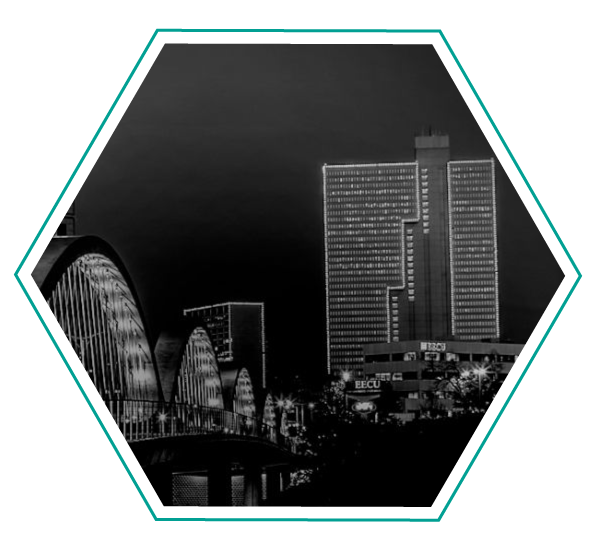
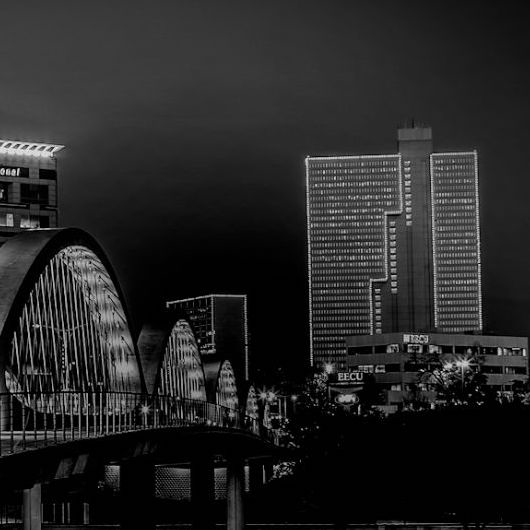
project child pages

diff --git a/app/portfolio/portfolio.component.scss b/app/portfolio/portfolio.component.scss
@@ -6,9 +6,28 @@ $primary-color: #757575;
 	text-align: center;
 }
 .project {
-	padding: 10px;
+	.outside {
+		position: absolute;
+		right: 150px;
+    width: 350px;
+    height: 380px;
+		background: $heading-color;
+		-webkit-clip-path: polygon(50% 3%, 100% 25%, 100% 75%, 50% 97%, 0% 75%, 0% 25%);
+		clip-path: polygon(50% 3%, 100% 25%, 100% 75%, 50% 97%, 0% 75%, 0% 25%);
+	}
+	.inside {
+		position: absolute;
+		top: 5px;
+		left: 5px;
+		right: 5px;
+		bottom: 5px;
+		background: #e4f4f3;
+		-webkit-clip-path: polygon(50% 3%, 100% 25%, 100% 75%, 50% 97%, 0% 75%, 0% 25%);
+		clip-path: polygon(50% 3%, 100% 25%, 100% 75%, 50% 97%, 0% 75%, 0% 25%);
+	}
 	.project-image {
-		padding: 10px;
+		-webkit-clip-path: polygon(50% 3%, 100% 25%, 100% 75%, 50% 97%, 0% 75%, 0% 25%);
+		clip-path: polygon(50% 3%, 100% 25%, 100% 75%, 50% 97%, 0% 75%, 0% 25%);
 	}
 	h2 {
 		color: $heading-color;
@@ -28,38 +47,61 @@ $primary-color: #757575;
 @media only screen and (min-width : 1224px) {
 
 	.projects {
+		padding: 55px 95px;
+		text-align: left;
 		h2 {
 			font-size: 40px;
 		}
 		p {
 			font-size: 20px;
 		}
-		padding: 55px 95px;
-		text-align: left;
 		.project {
 			position: relative;
     	height: 390px;
       margin: 50px;
+			.outside {
+				position: absolute;
+				width: 350px;
+				height: 380px;
+				background: $heading-color;
+				-webkit-clip-path: polygon(50% 3%, 100% 25%, 100% 75%, 50% 97%, 0% 75%, 0% 25%);
+				clip-path: polygon(50% 3%, 100% 25%, 100% 75%, 50% 97%, 0% 75%, 0% 25%);
+			}
+			.outside.realty, .outside.valerie, .outside.kw   {
+				right: -550px;
+			}
+			.outside.kwhitaker, .outside.bella  {
+				left: 850px;
+			}
+			.inside {
+				position: absolute;
+				top: 5px;
+				left: 5px;
+				right: 5px;
+				bottom: 5px;
+				background: #e4f4f3;
+				-webkit-clip-path: polygon(50% 3%, 100% 25%, 100% 75%, 50% 97%, 0% 75%, 0% 25%);
+				clip-path: polygon(50% 3%, 100% 25%, 100% 75%, 50% 97%, 0% 75%, 0% 25%);
+			}
 			.project-image {
 				position: absolute;
-				width: 420px;
+				right: 5px;
+				top: 5px;
+				width: 330px;
+				height: 360px;
+				-webkit-clip-path: polygon(50% 3%, 100% 25%, 100% 75%, 50% 97%, 0% 75%, 0% 25%);
+				clip-path: polygon(50% 3%, 100% 25%, 100% 75%, 50% 97%, 0% 75%, 0% 25%);
 			}
 			.text {
 				width: 400px;
-				top: 35%;
+				top: 30%;
 				position: absolute;
 			}
-			.realty.project-image, .valerie.project-image, .rooster.project-image {
-				right: 150px;
-			}
-			.realty.text, .valerie.text, .rooster.text {
+			.realty.text, .valerie.text, .kw.text {
 				left: 160px;
 			}
-			.kwhitaker.text, .bella.text, .kw.text {
+			.kwhitaker.text, .bella.text {
 				right: 120px;
-			}
-			.kwhitaker.project-image, .bella.project-image, .kw.project-image {
-				left: 150px;
 			}
 		}
 	}

diff --git a/app/portfolio/portfolio.component.ts b/app/portfolio/portfolio.component.ts
@@ -1,24 +1,48 @@
 import { Component, OnInit } from '@angular/core';
 import { Project } from './project/project.model';
+import { ProjectService } from './project/project.service';
+import {
+  trigger,
+  state,
+  style,
+  animate,
+  transition,
+	query,
+	stagger
+} from '@angular/animations';
 
 @Component({
   selector: 'app-portfolio',
   templateUrl: './portfolio.component.html',
-  styleUrls: ['./portfolio.component.scss']
+  styleUrls: ['./portfolio.component.scss'],
+	providers: [ProjectService],
+	animations: [
+		trigger('photoState', [
+			state('out', style({
+				display: 'inherit',
+				transform: 'translateX(-700px)',
+			})),
+			state('in', style({
+				display: 'none',
+			})),
+			transition('* => *', animate('500ms ease')),
+		])
+	]
 })
+
 export class PortfolioComponent implements OnInit {
-	projects: Project[] = [
-		new Project('realty-cards.com', 'Full-service Realty Marketing Company', 'http://localhost:4200/assets/realty-cards.png', 'realty-cards', 'realty'),
-		new Project('Kyle Whitaker', 'Fort Worth, Texas Attorney', 'http://localhost:4200/assets/kyle-whitaker.png', 'kyle-whitaker', 'kwhitaker'),
-		new Project('The Law Offices of Valerie Moore', 'Kansas Lawyer', 'http://localhost:4200/assets/realty-cards.png', 'valerie-moore', 'valerie'),
-		new Project('Bella Prana Yoga', 'Yoga Studio in Tampa, Florida', 'http://localhost:4200/assets/realty-cards.png', 'bella-prana', 'bella'),
-		new Project('Rooster & The Till', 'Award-winning New American Restaurant', 'http://localhost:4200/assets/realty-cards.png', 'rooster-till', 'rooster'),
-		new Project('KW Cards', 'Sister-site of realty-cards.com', 'http://localhost:4200/assets/realty-cards.png', 'kw-cards', 'kw')
-	];
+	projects: Project[];
 	
-  constructor() { }
+	out = true;
+
+  get flyIn() {
+    return this.out ? 'out' : 'in'
+  }
+	
+  constructor(private projectService: ProjectService) { }
 
   ngOnInit() {
+		this.projects = this.projectService.getProjects();
   }
 
 }

diff --git a/app/app-routing.module.ts b/app/app-routing.module.ts
@@ -10,7 +10,6 @@ import { RealtyCardsComponent } from './portfolio/project/realty-cards/realty-ca
 import { KyleWhitakerComponent } from './portfolio/project/kyle-whitaker/kyle-whitaker.component';
 import { ValerieMooreComponent } from './portfolio/project/valerie-moore/valerie-moore.component';
 import { BellaPranaComponent } from './portfolio/project/bella-prana/bella-prana.component';
-import { RoosterTillComponent } from './portfolio/project/rooster-till/rooster-till.component';
 import { KwCardsComponent } from './portfolio/project/kw-cards/kw-cards.component';
 
 const appRoutes: Routes = [
@@ -23,7 +22,6 @@ const appRoutes: Routes = [
 			{ path: 'kyle-whitaker', component: KyleWhitakerComponent },
 			{ path: 'valerie-moore', component: ValerieMooreComponent },
 			{ path: 'bella-prana', component: BellaPranaComponent },
-			{ path: 'rooster-till', component: RoosterTillComponent },
 			{ path: 'kw-cards', component: KwCardsComponent }
 		]
 	},

diff --git a/app/portfolio/project/project.service.ts b/app/portfolio/project/project.service.ts
@@ -1,0 +1,16 @@
+import { Project } from './project.model';
+
+export class ProjectService {
+	private projects: Project[] = [
+		new Project('realty-cards.com', 'Full-service Realty Marketing Company', 'http://localhost:4200/assets/realty-cards.png', 'realty-cards', 'realty'),
+		new Project('Kyle Whitaker', 'Fort Worth, Texas Attorney', 'http://localhost:4200/assets/kyle-whitaker.png', 'kyle-whitaker', 'kwhitaker'),
+		new Project('The Law Offices of Valerie Moore', 'Kansas Lawyer', 'http://localhost:4200/assets/vm.png', 'valerie-moore', 'valerie'),
+		new Project('Bella Prana Yoga', 'Yoga Studio in Tampa, Florida', 'http://localhost:4200/assets/bp.png', 'bella-prana', 'bella'),
+		new Project('KW Cards', 'Sister-site of realty-cards.com', 'http://localhost:4200/assets/kw.png', 'kw-cards', 'kw')
+	];
+
+	getProjects() {
+		return this.projects.slice();
+	}
+
+}

diff --git a/app/app.module.ts b/app/app.module.ts
@@ -17,7 +17,6 @@ import { RealtyCardsComponent } from './portfolio/project/realty-cards/realty-ca
 import { KyleWhitakerComponent } from './portfolio/project/kyle-whitaker/kyle-whitaker.component';
 import { ValerieMooreComponent } from './portfolio/project/valerie-moore/valerie-moore.component';
 import { BellaPranaComponent } from './portfolio/project/bella-prana/bella-prana.component';
-import { RoosterTillComponent } from './portfolio/project/rooster-till/rooster-till.component';
 import { KwCardsComponent } from './portfolio/project/kw-cards/kw-cards.component';
 
 @NgModule({
@@ -34,7 +33,6 @@ import { KwCardsComponent } from './portfolio/project/kw-cards/kw-cards.componen
     KyleWhitakerComponent,
     ValerieMooreComponent,
     BellaPranaComponent,
-    RoosterTillComponent,
     KwCardsComponent
   ],
   imports: [

diff --git a/app/portfolio/project/project.component.ts b/app/portfolio/project/project.component.ts
@@ -1,17 +1,20 @@
 import { Component, OnInit } from '@angular/core';
-import { Router,ActivatedRoute } from '@angular/router';
+import { Project } from './project.model';
+import { ProjectService } from './project.service';
 
 @Component({
   selector: 'app-project',
   templateUrl: './project.component.html',
-  styleUrls: ['./project.component.scss']
+  styleUrls: ['./project.component.scss'],
+	providers: [ProjectService]
 })
 export class ProjectComponent implements OnInit {
-
-  constructor() { }
+	projects: Project[];
+	
+  constructor(private projectService: ProjectService) { }
 
   ngOnInit() {
-		
+		this.projects = this.projectService.getProjects();
   }
 
 }

diff --git a/app/portfolio/portfolio.component.html b/app/portfolio/portfolio.component.html
@@ -1,7 +1,12 @@
 <div class="projects">
 	<a [routerLink]="['project', project.linkName]" *ngFor="let project of projects">
 		<div class="project">
-			<img [src]="project.imageURL" alt="{{ project.name }}" class="{{ project.cssClass }} project-image img-responsive"/>
+		
+		
+		<div class="outside {{ project.cssClass }} " [@photoState]="flyIn">
+  		<div class="inside"><img [src]="project.imageURL" alt="{{ project.name }}" class="project-image img-responsive"/></div>
+		</div>
+	
 			<div class="{{ project.cssClass }} text">
 				<h2> {{ project.name }} </h2>
 				<p class="project-desc"> {{ project.description }} </p>

diff --git a/app/about/about.component.scss b/app/about/about.component.scss
@@ -45,6 +45,8 @@ a {
 img.profile {
 	width: 345px;
 	margin: 0 auto;
+	-webkit-clip-path: polygon(50% 0%, 100% 25%, 100% 75%, 50% 100%, 0% 75%, 0% 25%);
+	clip-path: polygon(50% 0%, 100% 25%, 100% 75%, 50% 100%, 0% 75%, 0% 25%);
 	}
 .social {
 	display: flex;

diff --git a/app/portfolio/project/project.component.html b/app/portfolio/project/project.component.html
@@ -1,4 +1,8 @@
-<div class="container contact">
+<div class="project-img">
+	<img src="/assets/kw.jpg" alt="kw">
+</div>
+
+<div class="container">
 <div class="row">
 	<div class="col-md-12">
 		<p>TEST</p>

diff --git a/app/portfolio/project/project.component.scss b/app/portfolio/project/project.component.scss
@@ -1,0 +1,8 @@
+.project-img {
+	margin-left: 95px;
+	-webkit-clip-path: polygon(50% 80%, 0 0, 100% 0);
+	clip-path: polygon(50% 80%, 0 0, 100% 0);
+	img {
+		width: 100%;
+	}
+}
